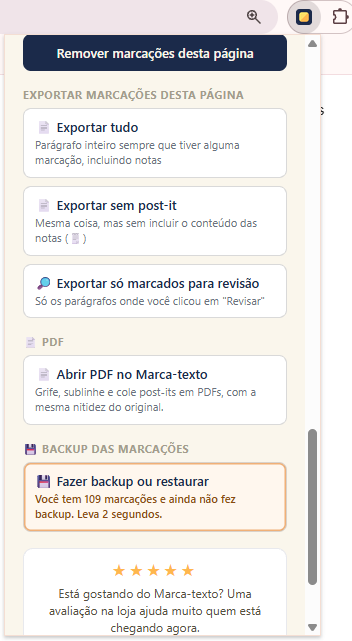
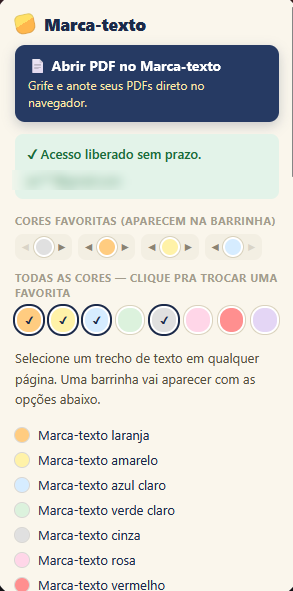
Imagem de como abrir PDF: novo menu da extensão (botão no topo; e-mail desfocado)
Claude-Session: https://claude.ai/code/session_017wcxGjM5v7RgCcvZU2Zqu8

diff --git a/src/capturas/pdf.js b/src/capturas/pdf.js
@@ -1,5 +1,5 @@
 // Monta img/mtw-pdf.webp (2560x1600): como abrir um PDF no Marca-texto Web.
-// Usa as capturas pdf-popup.png (menu da extensão) e pdf-pagina.png (tela "Grife seus PDFs", sem a barra do Chrome, recortada no centro: x 250–1550, y 46–806 da captura de 1691x989).
+// Usa as capturas pdf-popup.png (menu da extensão; e-mail desfocado) e pdf-pagina.png (tela "Grife seus PDFs", sem a barra do Chrome, recortada no centro: x 250–1550, y 46–806 da captura de 1691x989).
 // A janela de escolher arquivo é desenhada aqui (genérica, sem pastas reais do usuário).
 // Uso (na raiz):  NODE_PATH=$(npm root -g) node src/capturas/pdf.js && python3 -c "from PIL import Image; Image.open('/tmp/mtw-pdf.png').convert('RGB').save('img/mtw-pdf.webp','WEBP',quality=85,method=6)"
 const { chromium } = require('playwright');
@@ -18,7 +18,7 @@ h1 mark{background:linear-gradient(transparent 52%,#FDE27D 52%,#FDE27D 94%,trans
 .sub{position:absolute;left:50px;top:72px;font:400 17.5px/1.3 'Instrument Sans';color:#4E5566;white-space:nowrap}
 .logo{position:absolute;right:50px;top:34px;display:flex;align-items:center;gap:9px;font:700 15.5px 'Bricolage Grotesque';letter-spacing:-.01em;color:#14213D}
 .logo svg{width:20px;height:20px;display:block}
-.pop{position:absolute;left:60px;top:140px;width:334px;border-radius:12px;overflow:hidden;border:1px solid #D2CEC8;box-shadow:0 24px 50px -24px rgba(70,50,0,.45)}
+.pop{position:absolute;left:80px;top:150px;width:300px;border-radius:12px;overflow:hidden;border:1px solid #D2CEC8;box-shadow:0 24px 50px -24px rgba(70,50,0,.45)}
 .pop img{display:block;width:100%}
 .win{position:absolute;left:440px;top:150px;width:790px;border-radius:14px;overflow:hidden;background:#fff;border:1px solid #D2CEC8;box-shadow:0 24px 50px -24px rgba(70,50,0,.35)}
 .bar{height:35px;background:#EDEDF0;display:flex;align-items:center;padding:0 14px;gap:7px;border-bottom:1px solid #DEDEE2}
@@ -41,8 +41,8 @@ h1 mark{background:linear-gradient(transparent 52%,#FDE27D 52%,#FDE27D 94%,trans
 <div class="sub">Ícone do Marca-texto → “Abrir PDF no Marca-texto” → escolha o arquivo no computador (ou arraste o PDF para a tela).</div>
 <div class="logo"><svg viewBox="0 0 24 24" aria-hidden="true"><defs><clipPath id="cp"><rect x="3.4" y="3.4" width="17.2" height="17.2" rx="5.2"/></clipPath></defs><g transform="rotate(-14 12 12)"><g clip-path="url(#cp)"><rect x="3.4" y="3.4" width="17.2" height="17.2" fill="#FFB74D"/><polygon points="3.4,3.4 20.6,3.4 3.4,20.6" fill="#FFE066"/></g></g></svg>Marca-texto Web</div>
 <div class="pop"><img src="${uri('pdf-popup.png')}" alt=""></div>
-<div class="n" style="left:30px;top:${140 + 381 * 334 / 352 - 17}px">1</div>
-<svg class="cur" style="left:${60 + 200 * 334 / 352}px;top:${140 + 392 * 334 / 352}px" viewBox="0 0 16 24"><path d="M1 1v19l5-5 3.5 7.5 3-1.4L9 13.8h7z" fill="#111" stroke="#fff" stroke-width="1.5" stroke-linejoin="round"/></svg>
+<div class="n" style="left:36px;top:${150 + 82 * 300 / 293 - 17}px">1</div>
+<svg class="cur" style="left:${80 + 215 * 300 / 293}px;top:${150 + 88 * 300 / 293}px" viewBox="0 0 16 24"><path d="M1 1v19l5-5 3.5 7.5 3-1.4L9 13.8h7z" fill="#111" stroke="#fff" stroke-width="1.5" stroke-linejoin="round"/></svg>
 <div class="win"><div class="bar"><span class="dot" style="background:#FA5E57"></span><span class="dot" style="background:#FBB42A"></span><span class="dot" style="background:#25C239"></span><div class="url">Marca-texto Web · Grife seus PDFs</div></div>
 <img src="${uri('pdf-pagina.png')}" alt=""></div>
 <div class="n" id="n2">2</div>
